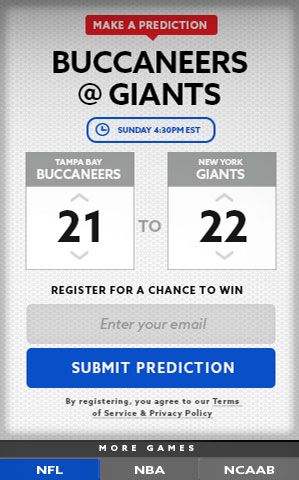
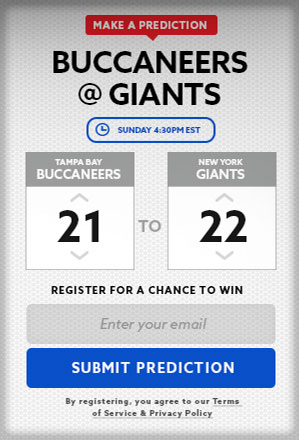
tabbing functionality for the widget area.

diff --git a/themes/TCL2016/style.css b/themes/TCL2016/style.css
@@ -309,14 +309,68 @@ video {
 }
 
 .top-panel .scoreboard-container .widget-container {
-  width: 300px;
-  height: 480px;
-  background: url("img/widget-screenshot.jpg") no-repeat center center;
+  /*width: 300px;*/
+  /*height: 480px;*/
+  /*background: url("img/widget-screenshot.jpg") no-repeat center center;*/
   background-size: contain;
   float: right;
   margin-right: 55px;
   margin-top: 37px;
+  position: relative;
 }
+.top-panel .scoreboard-container .widget-container .games {
+  width: 300px;
+  height: 480px;
+}
+.top-panel .scoreboard-container .widget-container .games .game {
+  position: absolute;
+  top: 0;
+  left: 0;
+  background: url("img/widget-screenshot.jpg") no-repeat top center;
+  width: 300px;
+  height: 430px;
+  display: none;
+  text-align: center;
+}
+.top-panel .scoreboard-container .widget-container .games .game.active {
+  display: block;
+}
+.top-panel .scoreboard-container .widget-container .more-games {
+  position: absolute;
+  bottom: 0;
+  width: 100%;
+  background-color: #3f3f3f;
+}
+.top-panel .scoreboard-container .widget-container .more-games h4 {
+  font-size: 6px;
+  color: white;
+  margin: 1px 0;
+  text-align: center;
+  display: block;
+}
+.top-panel .scoreboard-container .widget-container .more-games ul {
+  margin: 0;
+  padding: 0;
+}
+.top-panel .scoreboard-container .widget-container .more-games ul li {
+  float: left;
+  width: 33%;
+  cursor: pointer;
+  background-color: #656565;
+  list-style-type: none;
+  border-left: 1px solid black;
+}
+.top-panel .scoreboard-container .widget-container .more-games ul li p{
+  text-align: center;
+  font-family: "azo-sans-bold","Montserrat","Helvetica Neue",Helvetica,sans-serif; 
+  font-size: 8.5px;
+  color: white;
+  padding: 5px 0;
+}
+.top-panel .scoreboard-container .widget-container .more-games ul li.active {
+  background-color: #084bbb;
+}
+
 
 @media (max-width: 800px) {
   .top-panel{

diff --git a/themes/TCL2016/js/tcl2016.js b/themes/TCL2016/js/tcl2016.js
@@ -30,6 +30,16 @@
     }); 
 
 
+    //widget tabbing functionality
+    $('.game-tabs li').click(function(evt){
+      $('.game.active').removeClass('active');
+      $('.game-tabs li.active').removeClass('active');
+      var current = $(this).attr('class');
+      $(this).addClass('active');
+      $('.game.' + current).addClass('active');
+    });
+
+
     $('.scroll-arrow').click(function () { 
         var scrollHeight;
       if(windowWidth > breakpoint) {
@@ -44,6 +54,7 @@
         }, 600);
         return false;
     });
+
 
 
     $(document).ready(function(){

diff --git a/themes/TCL2016/homepage-2016.php b/themes/TCL2016/homepage-2016.php
@@ -16,7 +16,36 @@ Template Name: - TCL Homepage 2016
 
 
 	<div class="scoreboard-container">
-		<div class="widget-container"></div>
+		<div class="widget-container">
+			<div class="games">
+				<div class="game nfl active">
+					NFL WIDGET
+				</div>
+				<div class="game nba">
+					NBA WIDGET
+				</div>
+				<div class="game ncaab">
+					NCAAB WIDGET
+				</div>
+			</div>
+			
+			<div class="more-games">
+				<h4>More Games</h4>
+				<div class="game-tabs">
+				<ul>
+					<li class="nfl active">
+						<p>NFL</p>
+					</li>
+					<li class="nba">
+						<p>NBA</p>
+					</li>
+					<li class="ncaab">
+						<p>NCAAB</p>
+					</li>
+				</ul>
+				</div>
+			</div>
+		</div>
 	</div>
 
 	<div class="scroll-down-arrow-container">
